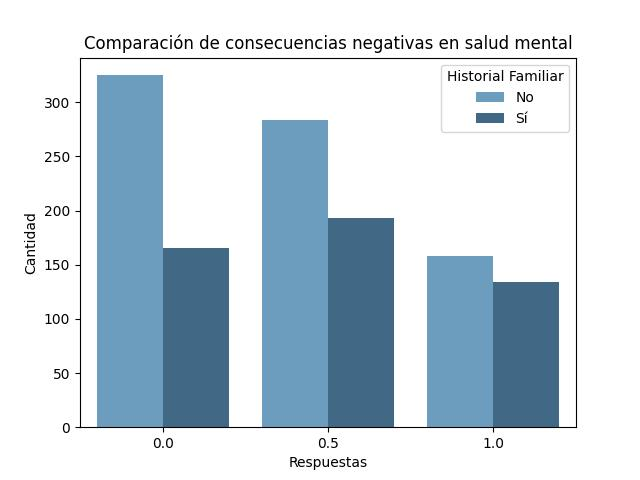
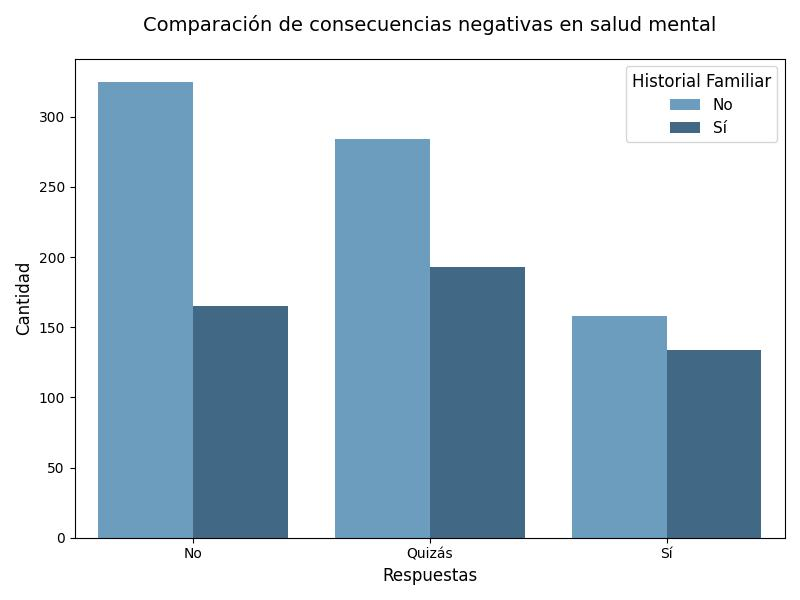
PequeñoArreglo

Changed region(s): [[0.0, 0.0312, 1.0, 1.0], [0.9688, 0.2188, 1.0, 0.25]]

diff --git a/Scripts/main.py b/Scripts/main.py
@@ -182,28 +182,29 @@ total = mental_health_count3 + mental_health_count2 + mental_health_count
 total2 = mental_health_count1 + mental_health_count21 + mental_health_count31
 # Mostrar resultados
 
-df_grouped = df2_1.groupby(["family_history", "mental_health_consequence"]).size().reset_index(name="count")
-df_grouped["family_history"] = df_grouped["family_history"].map({0: "No", 1: "Sí"})
-# Crear el gráfico de barras agrupadas
-df_grouped2.loc[:, "mental_health_consequence"] = df_grouped2["mental_health_consequence"].map({0: "No", 1: "Sí", 0.5: "Quizás"})
 
 
 df_grouped = df2_1.groupby(["family_history", "mental_health_consequence"]).size().reset_index(name="count")
+# Mapear los valores numéricos a etiquetas descriptivas
 df_grouped["family_history"] = df_grouped["family_history"].map({0: "No", 1: "Sí"})
+df_grouped["mental_health_consequence"] = df_grouped["mental_health_consequence"].map({0.0: "No", 0.5: "Quizás", 1.0: "Sí"})
 # Crear el gráfico de barras agrupadas
-df_grouped2.loc[:, "mental_health_consequence"] = df_grouped2["mental_health_consequence"].map({0: "No", 1: "Sí", 0.5: "Quizás"})
+plt.figure(figsize=(8, 6))  # Ajustar tamaño si es necesario
+sns.barplot(
+    x="mental_health_consequence",
+    y="count",
+    hue="family_history",
+    data=df_grouped,
+    palette="Blues_d",
+    order=["No", "Quizás", "Sí"]  # el orden de las categorías
+)
+# Configurar etiquetas y título
+plt.xlabel("Respuestas", fontsize=12)
+plt.ylabel("Cantidad", fontsize=12)
+plt.title("Comparación de consecuencias negativas en salud mental", fontsize=14, pad=20)
+# Personalizar leyenda
+plt.legend(title="Historial Familiar", title_fontsize=12, fontsize=11)
+# Ajustar diseño y mostrar gráfico
+plt.tight_layout()
 
-
-plt.figure()
-sns.barplot(x="mental_health_consequence", y="count", hue="family_history", data=df_grouped, palette="Blues_d")
-
-# Cambiar etiquetas del eje X
-#plt.xticks(rotation=45, fontsize=12, ha='center')
-
-# Configurar etiquetas
-plt.xlabel("Respuestas")
-plt.ylabel("Cantidad")
-plt.title("Comparación de consecuencias negativas en salud mental")
-plt.legend(title="Historial Familiar") 
-#plt.tight_layout()
 plt.savefig("../Imagenes/Mental_health_score_genetics.jpg")
